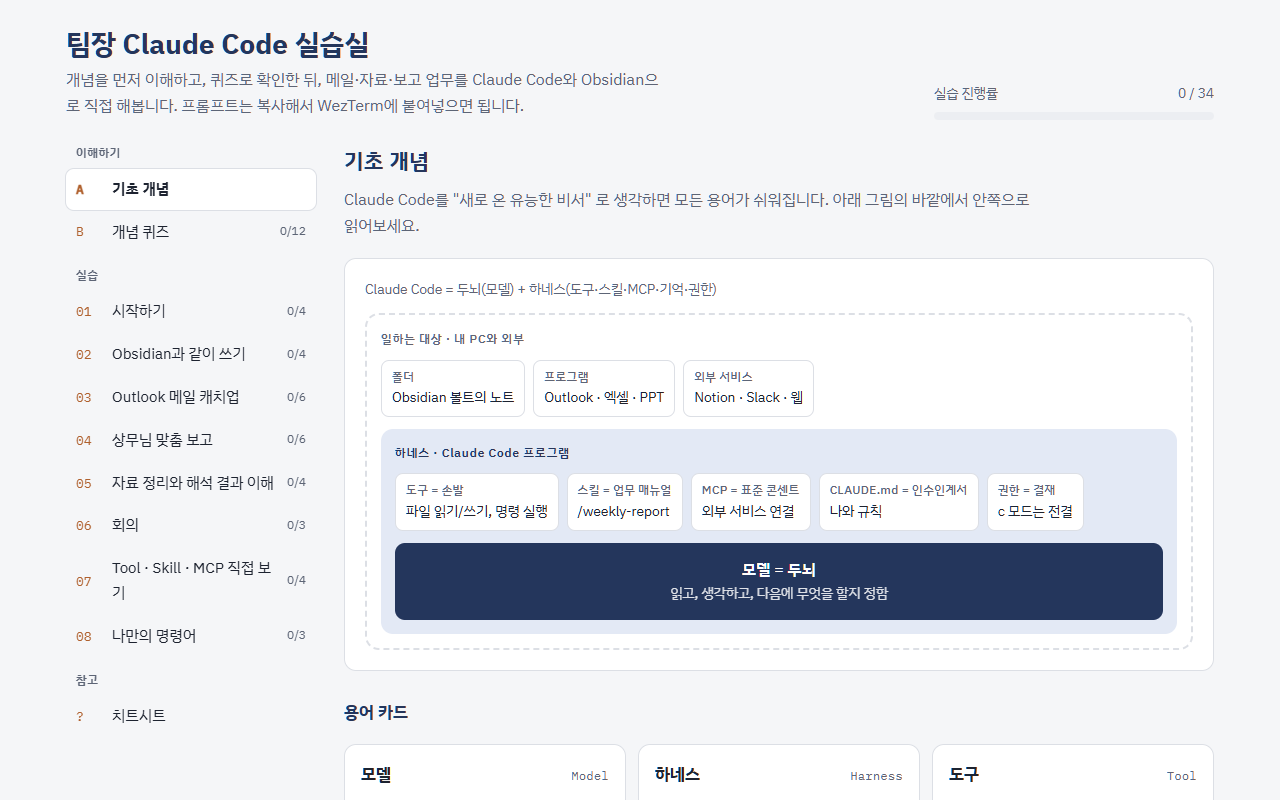
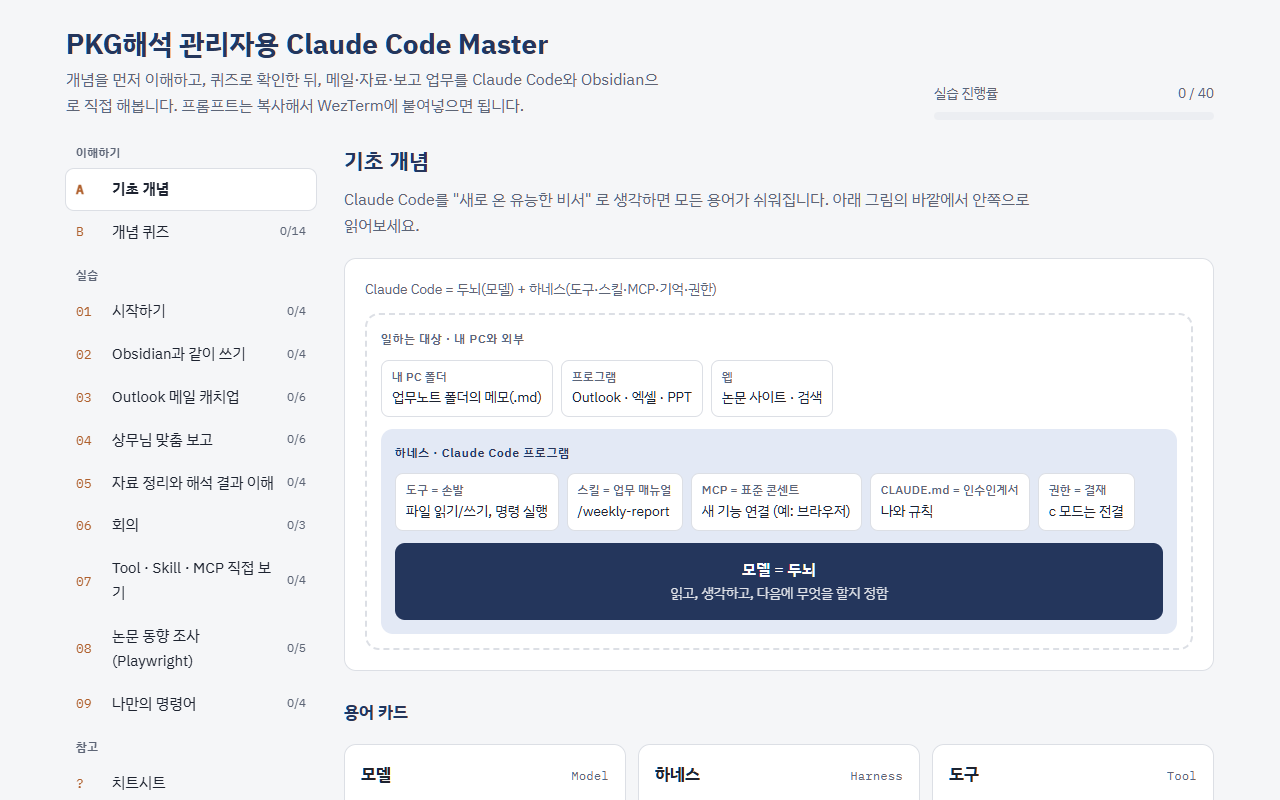
Claude Code Master 카드 갱신: 제목 변경, Playwright 논문 모듈 반영

diff --git a/src/data/projects.ts b/src/data/projects.ts
@@ -20,9 +20,9 @@ export interface Project {
 
 export const projects: Project[] = [
   {
-    title: '팀장 Claude Code 실습실 — 관리자를 위한 AI 비서 입문',
+    title: 'PKG해석 관리자용 Claude Code Master — AI 비서 입문 실습',
     summary:
-      'ChatGPT는 써봤지만 터미널은 처음인 관리자가 Claude Code를 업무 비서로 쓰게 돕는 실습 웹앱. 하네스·도구·스킬·MCP 같은 용어를 "새로 온 비서" 비유와 그림으로 설명하고 퀴즈로 확인한 뒤, 복사해서 바로 붙여넣는 프롬프트로 34개 실습을 따라간다. Python(win32com)으로 Outlook 메일을 직접 읽어 아침 브리핑과 스레드 요약을 Obsidian 일일노트에 남기고, 회신은 임시보관함 초안까지만 만든다. 상사가 보낸 메일에서 보고 선호 스타일을 학습해 스타일 노트로 만든 뒤, 그 기준으로 보고서 작성 → 상사 관점 빨간펜 리뷰 → 피드백 반영까지 이어지는 학습 루프를 실습하고, 반복 업무는 /morning-brief 같은 나만의 명령어로 묶는다.',
+      'ChatGPT는 써봤지만 터미널은 처음인 관리자가 Claude Code를 업무 비서로 쓰게 돕는 실습 웹앱. 하네스·도구·스킬·MCP 같은 용어를 "새로 온 비서" 비유와 그림으로 설명하고 퀴즈로 확인한 뒤, 복사해서 바로 붙여넣는 프롬프트로 40개 실습을 따라간다. Python(win32com)으로 Outlook 메일을 직접 읽어 아침 브리핑과 스레드 요약을 Obsidian 일일노트에 남기고, 회신은 임시보관함 초안까지만 만든다. 상사가 보낸 메일에서 보고 선호 스타일을 학습해 스타일 노트로 만든 뒤, 그 기준으로 보고서 작성 → 상사 관점 빨간펜 리뷰 → 피드백 반영까지 이어지는 학습 루프를 실습하고, Playwright를 MCP로 연결해 arXiv에서 반도체 패키징 논문 동향을 조사·요약하고, 반복 업무는 /morning-brief·/paper-watch 같은 나만의 명령어로 묶는다.',
     useFor: '메일·자료 정리·보고가 주 업무인 팀장님께 Claude Code를 처음 소개하고 직접 손에 익히게 하고 싶을 때',
     category: '생활 도구',
     tech: ['Vanilla JS', 'Claude Code', 'Obsidian', 'Outlook COM (win32com)', 'Cloudflare Pages'],
